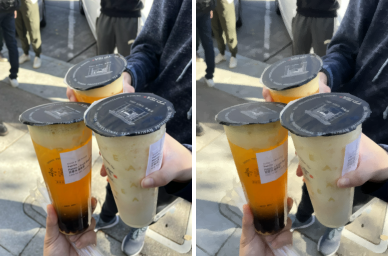
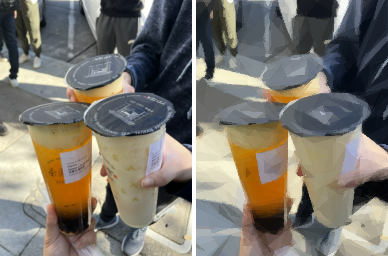
Swap boba example to 500-shape version to show the primitive-shape look more clearly

diff --git a/README.md b/README.md
@@ -6,7 +6,7 @@ natively in Go.
 
 ## Examples
 
-**Boba** — original vs. reconstruction (10k shapes, combo mode):
+**Boba** — original vs. reconstruction (500 shapes, combo mode):
 
 ![Boba comparison](examples/boba_comparison.png)
 
